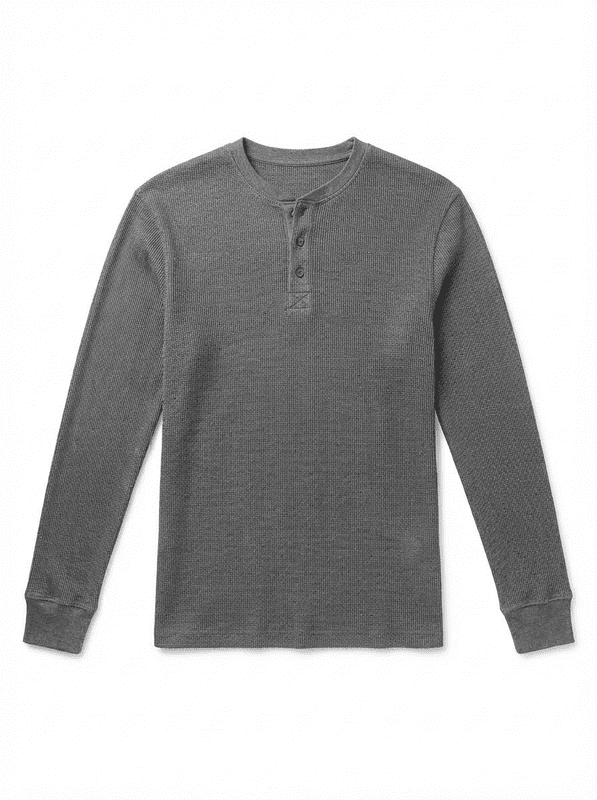
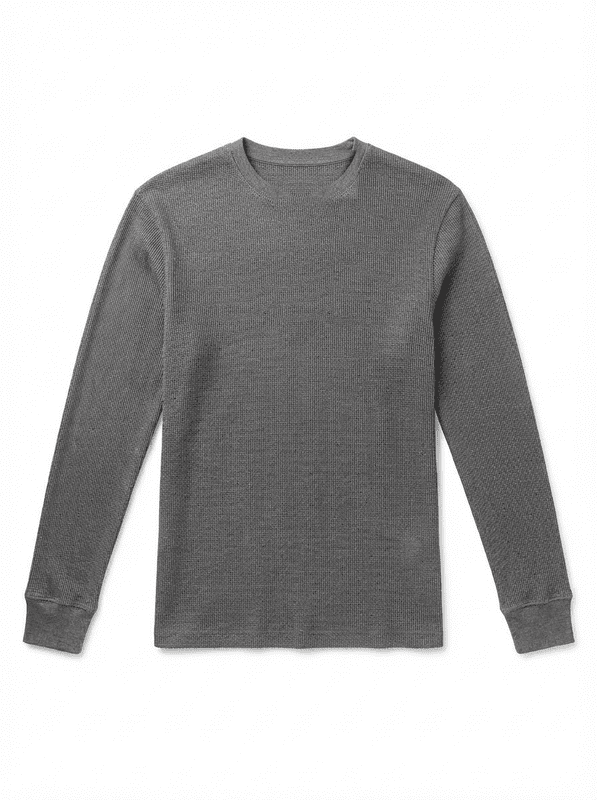
builder: thermal fronts are plain crew thermals, not henleys
HFW thermals have no buttons (Brad 10/08). scripts/remove_henley_placket.py
mirrors the clean left collar half over the henley band overlap and fills the
button placket/tab with shading-matched knit from the left. White regenerated
from grey (whiten_garments.py). Cache-busters bumped on the 3 fronts.

Changed region(s): [[0.4523, 0.1875, 0.603, 0.4062]]

diff --git a/src/data/catalog.ts b/src/data/catalog.ts
@@ -45,9 +45,9 @@ export const garments = [
     sizes: ['S', 'M', 'L', 'XL', 'XXL', 'XXXL'],
     supportsPlacement: true,
     images: {
-      white: { front: '/images/garments/thermal-white-front.png?v=2', back: '/images/garments/thermal-white-back.png?v=2' },
-      black: { front: '/images/garments/thermal-black-front.png', back: '/images/garments/thermal-black-back.png' },
-      grey: { front: '/images/garments/thermal-grey-front.png', back: '/images/garments/thermal-grey-back.png' }
+      white: { front: '/images/garments/thermal-white-front.png?v=3', back: '/images/garments/thermal-white-back.png?v=2' },
+      black: { front: '/images/garments/thermal-black-front.png?v=2', back: '/images/garments/thermal-black-back.png' },
+      grey: { front: '/images/garments/thermal-grey-front.png?v=2', back: '/images/garments/thermal-grey-back.png' }
     }
   },
   {

diff --git a/scripts/remove_henley_placket.py b/scripts/remove_henley_placket.py
@@ -1,0 +1,65 @@
+"""Turn the builder's thermal FRONT mockups from henleys into plain crew thermals.
+
+HFW thermals have no buttons (Brad 10/08), but thermal-{black,grey}-front.png
+were henley shots. Run on the ORIGINAL henley files (git history, before 10/08):
+  1. Collar: the henley band end crosses diagonally on the right of centre, so the
+     clean LEFT half of the collar is mirrored onto the right (crew necks are symmetric).
+  2. Button placket + tab: knit texture copied from SHIFT px to the left (kept
+     un-averaged so the dithered grain matches), its shading replaced by a
+     left-to-right blend of the fabric just outside the box. Soft edges.
+White is generated from grey afterwards: run scripts/whiten_garments.py.
+
+Usage: python scripts/remove_henley_placket.py
+"""
+from pathlib import Path
+
+import cv2
+import numpy as np
+from PIL import Image
+
+DIR = Path(__file__).resolve().parent.parent / "public" / "images" / "garments"
+
+# Calibration knobs (597x800 thermal front shots)
+CENTRE_X = 300                  # garment centre line (collar mirror axis)
+COLLAR = (300, 150, 358, 199)   # right half of collar replaced by mirror of the left
+BODY = (274, 197, 334, 320)     # placket + tab box
+SHIFT = 64                      # px left to copy knit texture from (must clear the box)
+SHADE_BLUR = 7                  # sigma separating shading from texture
+EDGE = 6                        # px sampled each side of BODY for target shading
+FEATHER = 2.0                   # sigma of the soft edge on both patches
+
+
+def soft_paste(a: np.ndarray, patch: np.ndarray, box: tuple) -> np.ndarray:
+    x0, y0, x1, y1 = box
+    m = np.zeros(a.shape[:2], np.float32)
+    m[y0:y1, x0:x1] = 1
+    m = cv2.GaussianBlur(m, (0, 0), FEATHER)[..., None]
+    full = a.copy()
+    full[y0:y1, x0:x1] = patch
+    return a * (1 - m) + full * m
+
+
+def fix(path: Path) -> None:
+    a = np.asarray(Image.open(path).convert("RGB")).astype(np.float32)
+
+    # 1. collar: mirror the left half across the centre line
+    cx0, cy0, cx1, cy1 = COLLAR
+    src_cols = [2 * CENTRE_X - x for x in range(cx0, cx1)]
+    a = soft_paste(a, a[cy0:cy1, src_cols], COLLAR)
+
+    # 2. placket body
+    x0, y0, x1, y1 = BODY
+    blur = cv2.GaussianBlur(a, (0, 0), SHADE_BLUR)
+    detail = a[y0:y1, x0 - SHIFT:x1 - SHIFT] - blur[y0:y1, x0 - SHIFT:x1 - SHIFT]
+    left = blur[y0:y1, x0 - EDGE:x0].mean(axis=1, keepdims=True)
+    right = blur[y0:y1, x1:x1 + EDGE].mean(axis=1, keepdims=True)
+    t = np.linspace(0, 1, x1 - x0)[None, :, None]
+    a = soft_paste(a, left * (1 - t) + right * t + detail, BODY)
+
+    Image.fromarray(np.clip(a, 0, 255).astype(np.uint8)).save(path, optimize=True)
+    print(f"{path.name}: placket removed")
+
+
+if __name__ == "__main__":
+    for colour in ("black", "grey"):
+        fix(DIR / f"thermal-{colour}-front.png")
